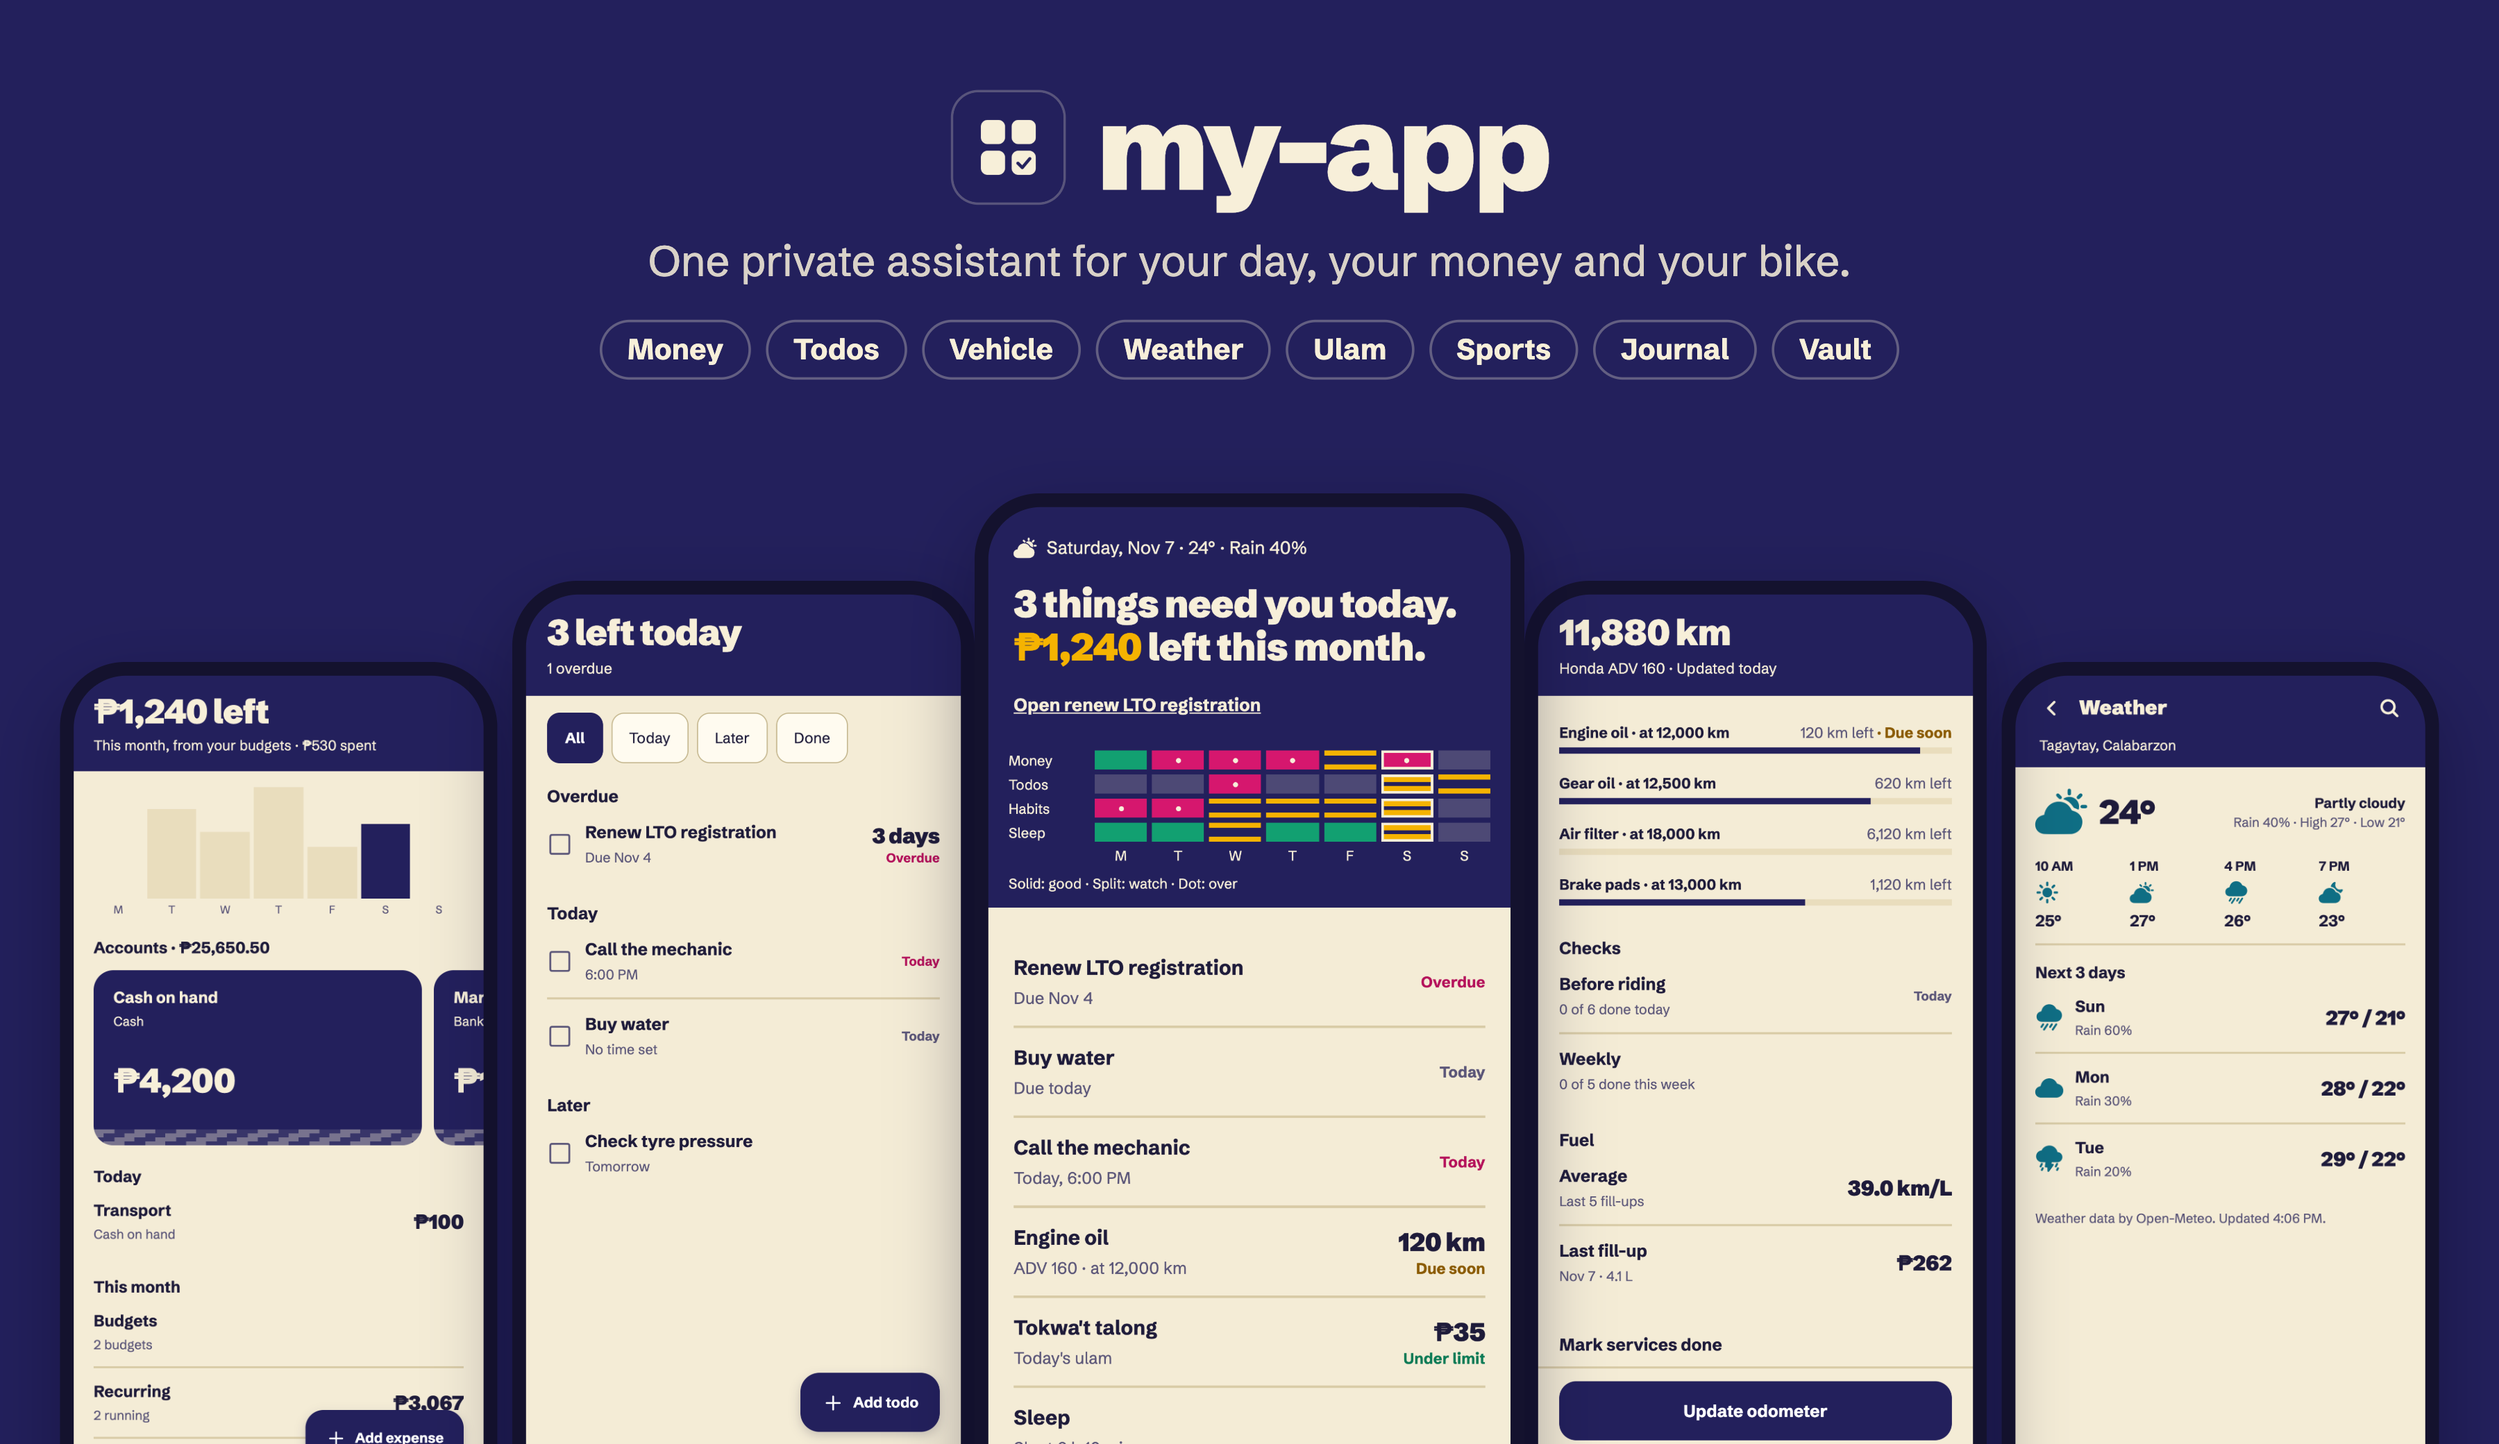
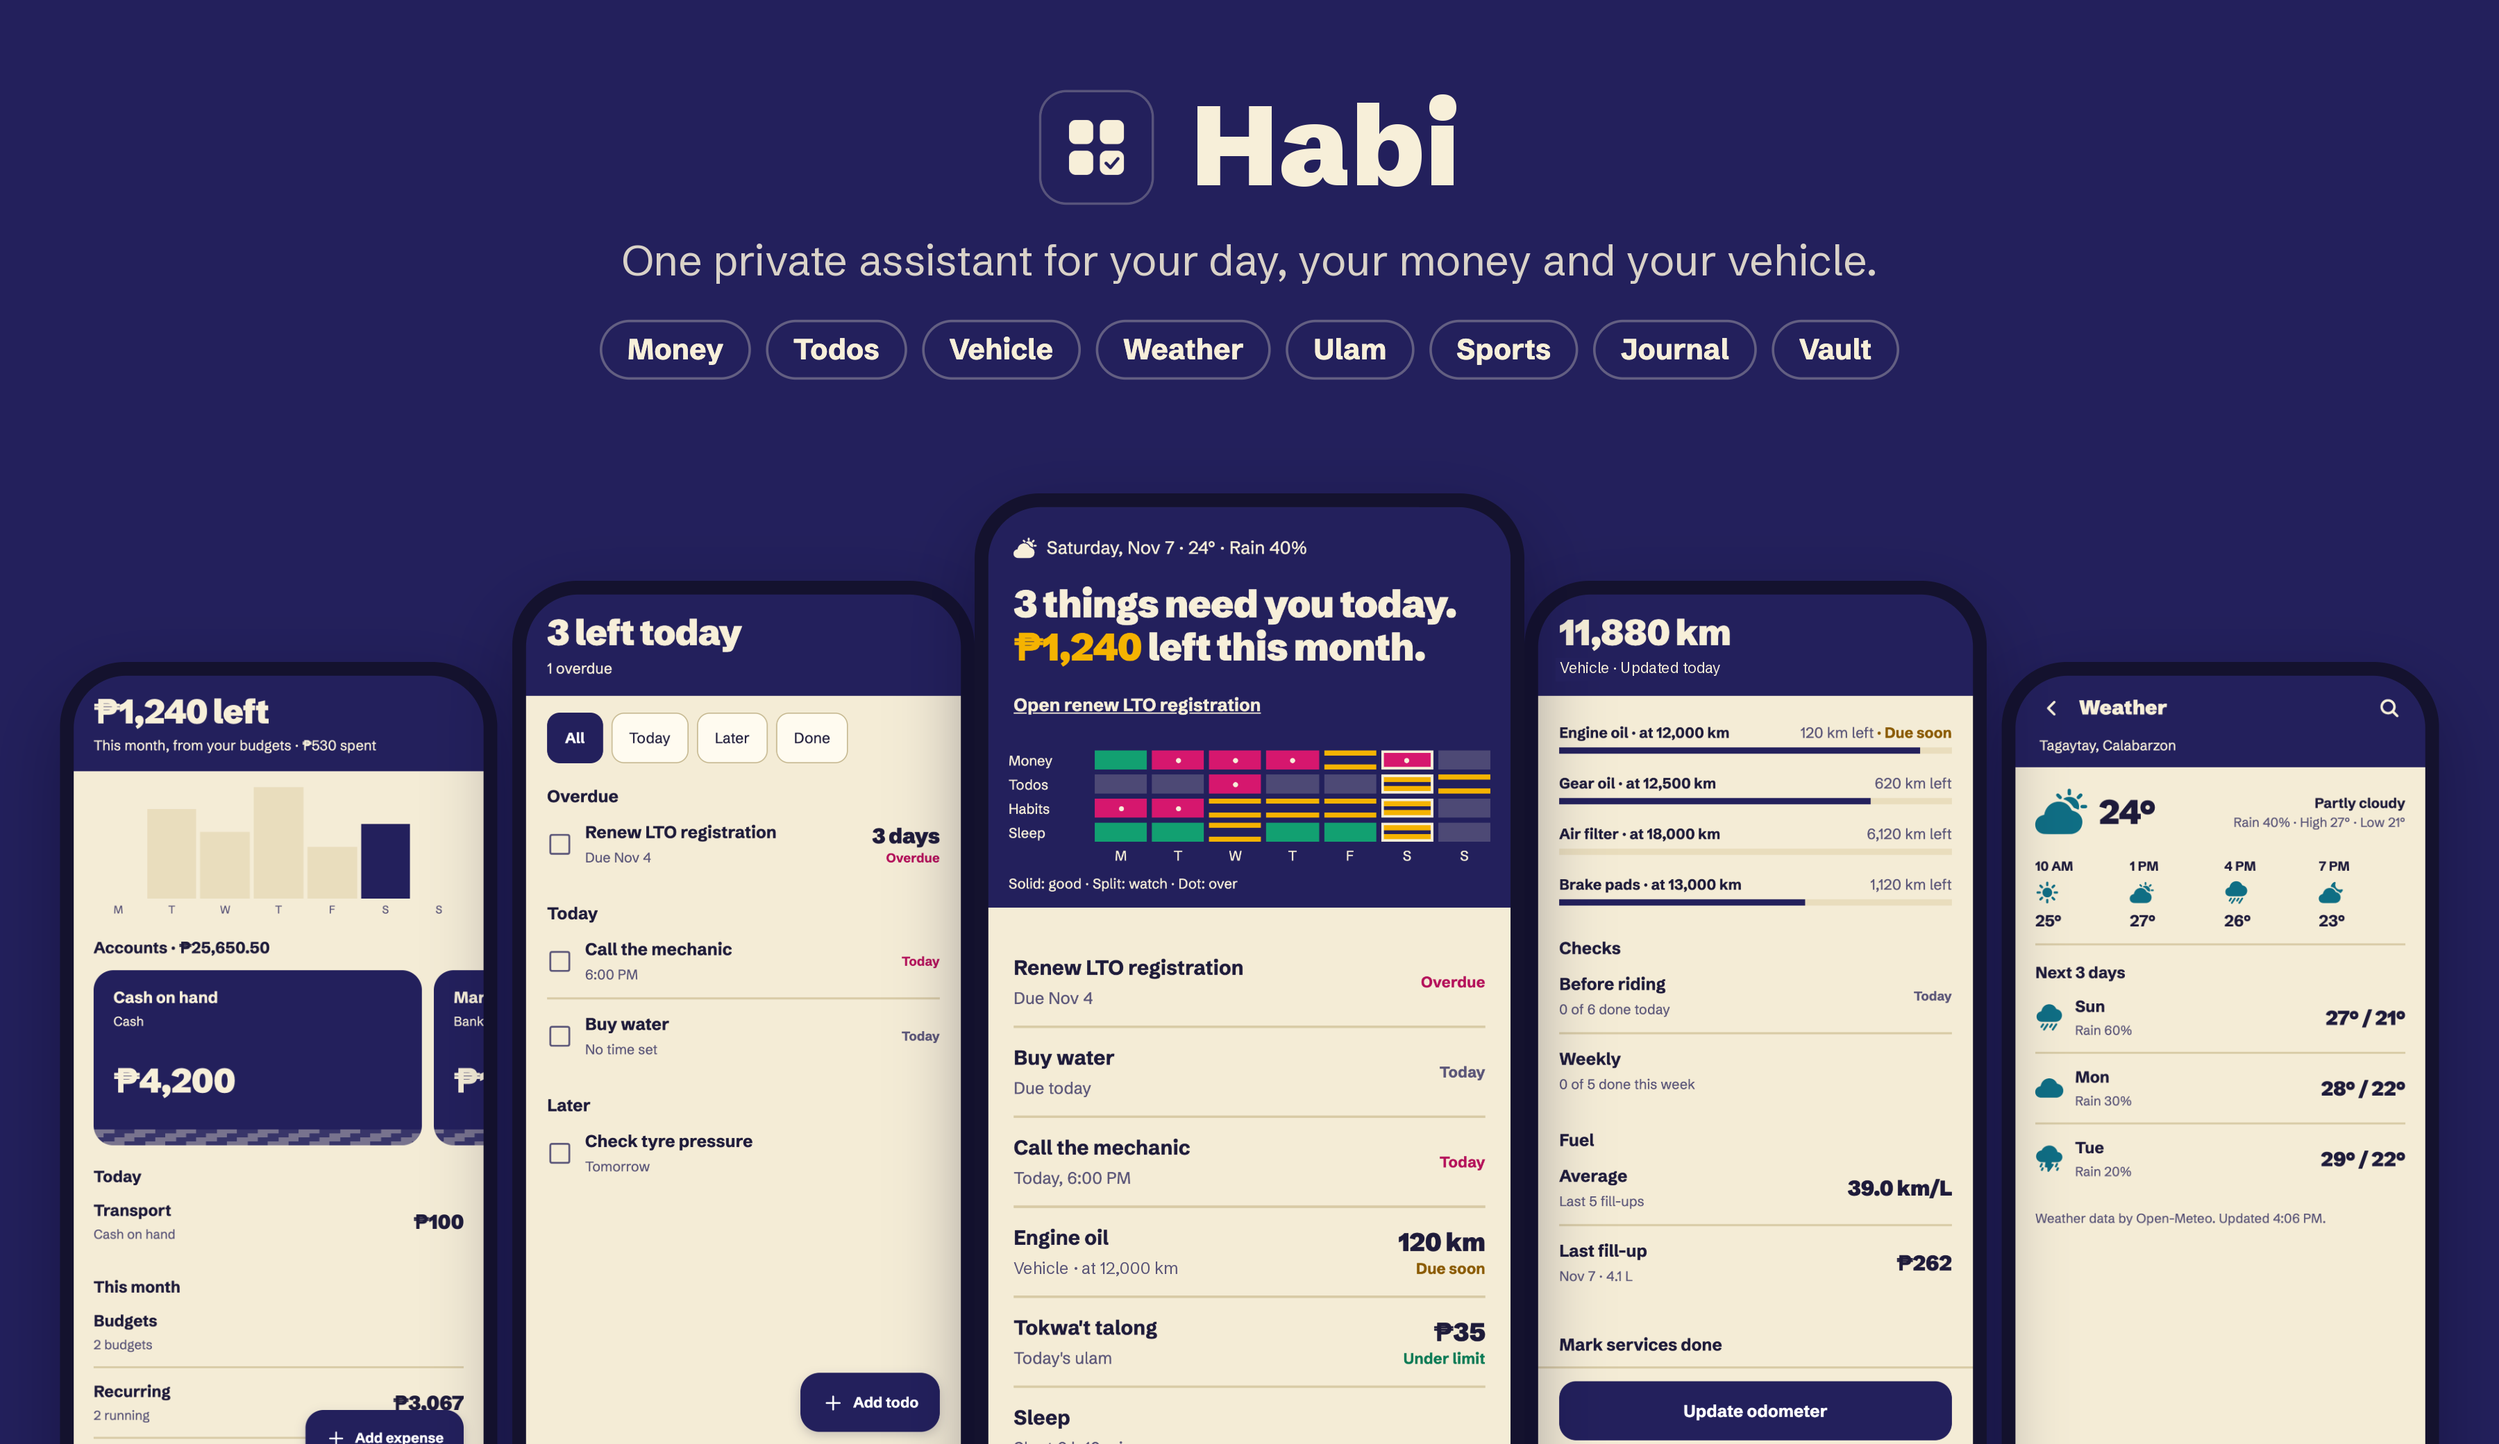
docs: explain the Habi name, and call the vehicle a vehicle
The README says what Habi means, as the habi-site README does. The banner
shows Habi and "your vehicle", and its screens no longer name the ADV 160.
The README, PRODUCT.md, CLAUDE.md, the Add vehicle sheet and two form
placeholders now say vehicle in place of the ADV 160.

Changed region(s): [[0.2489, 0.0625, 0.7467, 0.2186], [0.6222, 0.4373, 0.7156, 0.4685], [0.4044, 0.8746, 0.4667, 0.9058]]

diff --git a/components/content/VideoForm.tsx b/components/content/VideoForm.tsx
@@ -109,7 +109,7 @@ export function VideoForm({ video, stage = "script" }: { video?: Video; stage?: 
                 value={field.value}
                 onChangeText={field.onChange}
                 onBlur={field.onBlur}
-                placeholder="How I fixed my ADV 160 idle"
+                placeholder="How I fixed my scooter idle"
                 maxLength={200}
                 error={fieldState.error?.message}
               />

diff --git a/components/vehicle/AddVehicleSheet.tsx b/components/vehicle/AddVehicleSheet.tsx
@@ -35,7 +35,7 @@ export function AddVehicleSheet({ visible, onClose }: { visible: boolean; onClos
   });
 
   return (
-    <Sheet visible={visible} onClose={onClose} title="Add vehicle" subtitle="Honda ADV 160 with its service schedule">
+    <Sheet visible={visible} onClose={onClose} title="Add vehicle" subtitle="Your vehicle, with its service schedule">
       <Controller
         control={control}
         name="odometer"

diff --git a/components/documents/DocumentForm.tsx b/components/documents/DocumentForm.tsx
@@ -124,7 +124,7 @@ export function DocumentForm({ doc }: { doc?: DocumentRow }) {
                 value={field.value}
                 onChangeText={field.onChange}
                 onBlur={field.onBlur}
-                placeholder="ADV 160 registration"
+                placeholder="Vehicle registration"
                 maxLength={120}
                 error={fieldState.error?.message}
               />

diff --git a/README.md b/README.md
@@ -6,7 +6,9 @@
 
 ### One private app that tells you what needs you today.
 
-**Todos, money, the ADV 160's service schedule, a password vault and 18 more modules, in one Android app.**
+_Habi_ is Tagalog for "weave". The app weaves each part of your day into one Home.
+
+**Todos, money, your vehicle's service schedule, a password vault and 18 more modules, in one Android app.**
 
 [![CI](https://img.shields.io/github/actions/workflow/status/charlitomecarez/habi/ci.yml?style=flat-square&label=CI)](https://github.com/charlitomecarez/habi/actions/workflows/ci.yml)
 [![Version](https://img.shields.io/badge/version-1.4.0-23205C?style=flat-square)](CHANGELOG.md)
@@ -37,7 +39,7 @@
 
 ---
 
-Habi is one personal assistant for a real life in the Philippines: the ADV 160 and its kilometres, GCash and MariBank, ulam under ₱99, and voice messages in Taglish. Home says in one sentence what needs you, and every module feeds it. It runs on Android first and on the web second, and everything stays on free tiers.
+Habi is one personal assistant for a real life in the Philippines: the vehicle and its kilometres, GCash and MariBank, ulam under ₱99, and voice messages in Taglish. Home says in one sentence what needs you, and every module feeds it. It runs on Android first and on the web second, and everything stays on free tiers.
 
 > **[Read the release records](docs/releases/index.md)** for each version's plan, design, handoff and release notes.
 
@@ -102,7 +104,7 @@ The tabs are Home, Money, Todos, Vehicle and More. More is a searchable grid of 
 | **Money**                       | Week chart, account cards, transactions, bills, budgets, savings goals, subscriptions, recurring entries and exchange rates                                                                | —                                         |
 | **Statement import**            | GoTyme, GCash and MariBank PDFs, with a review before anything saves                                                                                                                       | `GOTYME_KEY`, `GCASH_KEY` for locked PDFs |
 | **Todos**                       | Due dates, repeats and reminders                                                                                                                                                           | —                                         |
-| **Vehicle**                     | Odometer, service schedule and log, fuel logs, and before-riding and weekly checks. Honda ADV 160 by default                                                                               | —                                         |
+| **Vehicle**                     | Odometer, service schedule and log, fuel logs, and before-riding and weekly checks                                                                                                         | —                                         |
 | **Habits, Gym, Journal**        | Streaks, workout plans and sessions, and a journal calendar                                                                                                                                | —                                         |
 | **Health**                      | Medicine doses, doctor visits, steps from Health Connect, and sleep from when your screen is off                                                                                           | Android for steps and sleep               |
 | **Screen time**                 | Every app you used today or this week                                                                                                                                                      | Android usage access                      |

diff --git a/PRODUCT.md b/PRODUCT.md
@@ -8,7 +8,7 @@ android
 
 ## Users
 
-Charli is the admin and the primary user. Charli is a rider in the Philippines (Asia/Manila) with a Honda ADV 160 and a Galaxy A56. Charli uses the app at four moments: a morning check before leaving, quick logs during the day, an evening review at home, and a tap on a reminder. A small number of other people can use the app. Only the admin adds them, and each account has fully separate data.
+Charli is the admin and the primary user. Charli is a rider in the Philippines (Asia/Manila) with a motorbike and a Galaxy A56. Charli uses the app at four moments: a morning check before leaving, quick logs during the day, an evening review at home, and a tap on a reminder. A small number of other people can use the app. Only the admin adds them, and each account has fully separate data.
 
 ## Product Purpose
 
@@ -16,7 +16,7 @@ Habi is one private personal assistant. It remembers todos, services, bills, mon
 
 ## Positioning
 
-The app knows one real life: the ADV 160 and its kilometres, GCash and MariBank, ulam under ₱99, and voice messages in Taglish. A general todo or finance app cannot join these facts in one view.
+The app knows one real life: the vehicle and its kilometres, GCash and MariBank, ulam under ₱99, and voice messages in Taglish. A general todo or finance app cannot join these facts in one view.
 
 ## Operating Context
 

diff --git a/CLAUDE.md b/CLAUDE.md
@@ -1,6 +1,6 @@
 # Habi
 
-Personal all-in-one app for Charli (Philippines, Asia/Manila), the admin. Sign-up is off, so only people the admin adds can use the app, and each account has fully separate data. Only the admin decides who gets voice messages. It holds todos with reminders, vehicle maintenance (Honda ADV 160 default), room inventory, money and subscriptions, password vault.
+Personal all-in-one app for Charli (Philippines, Asia/Manila), the admin. Sign-up is off, so only people the admin adds can use the app, and each account has fully separate data. Only the admin decides who gets voice messages. It holds todos with reminders, vehicle maintenance, room inventory, money and subscriptions, password vault.
 
 - Display name and GitHub repo: Habi (`charlitomecarez/habi`). The expo.dev slug, package and scheme stay `my-app` / `com.charli.myapp` / `myapp`.
 - Android package: `com.charli.myapp` (app.json `android.package`; Google OAuth Android client IDs and FCM use it)
